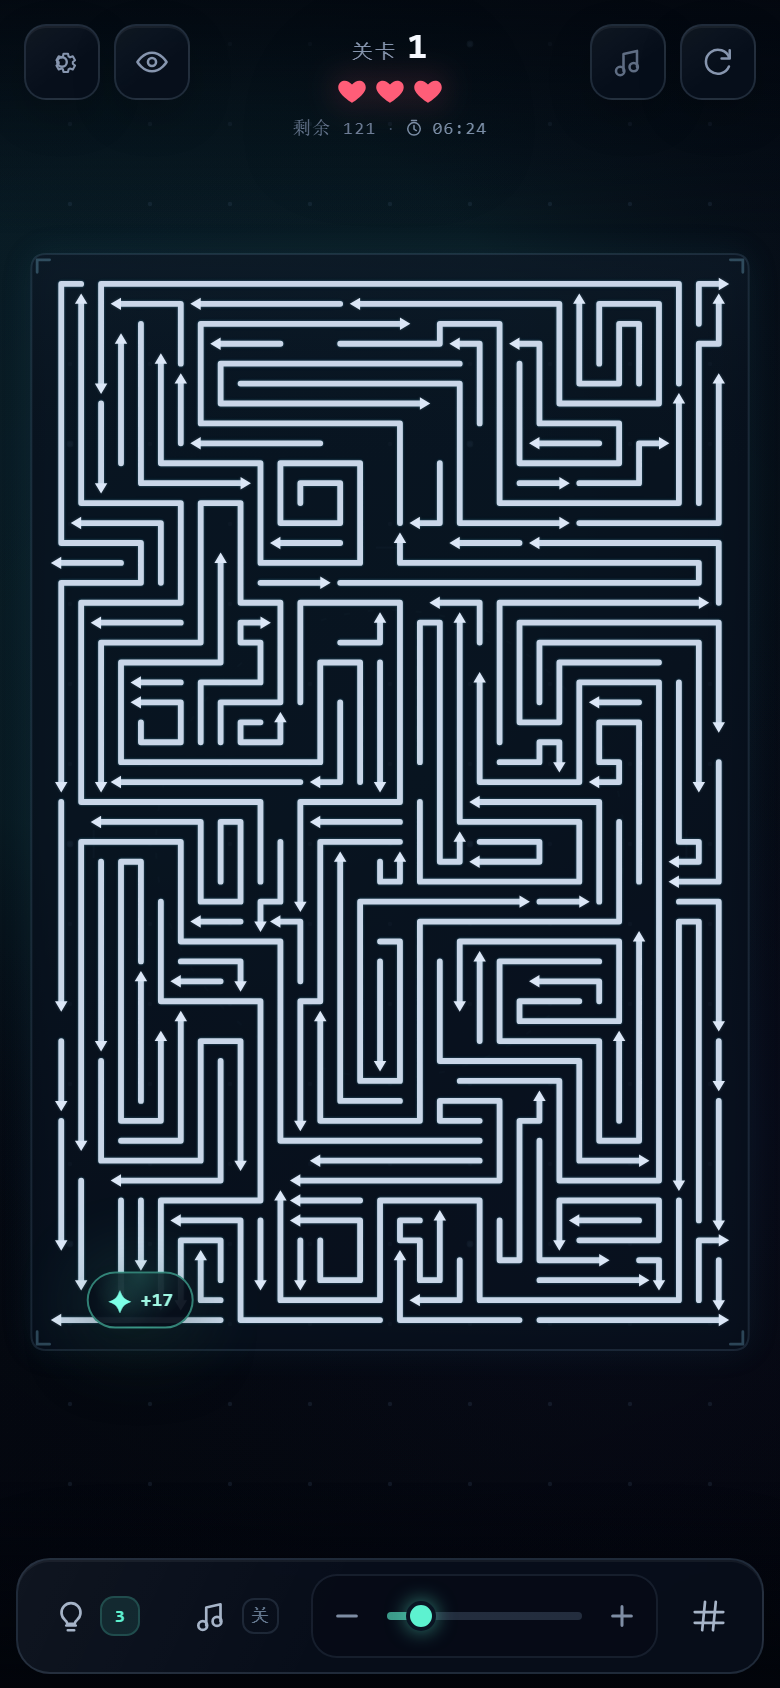
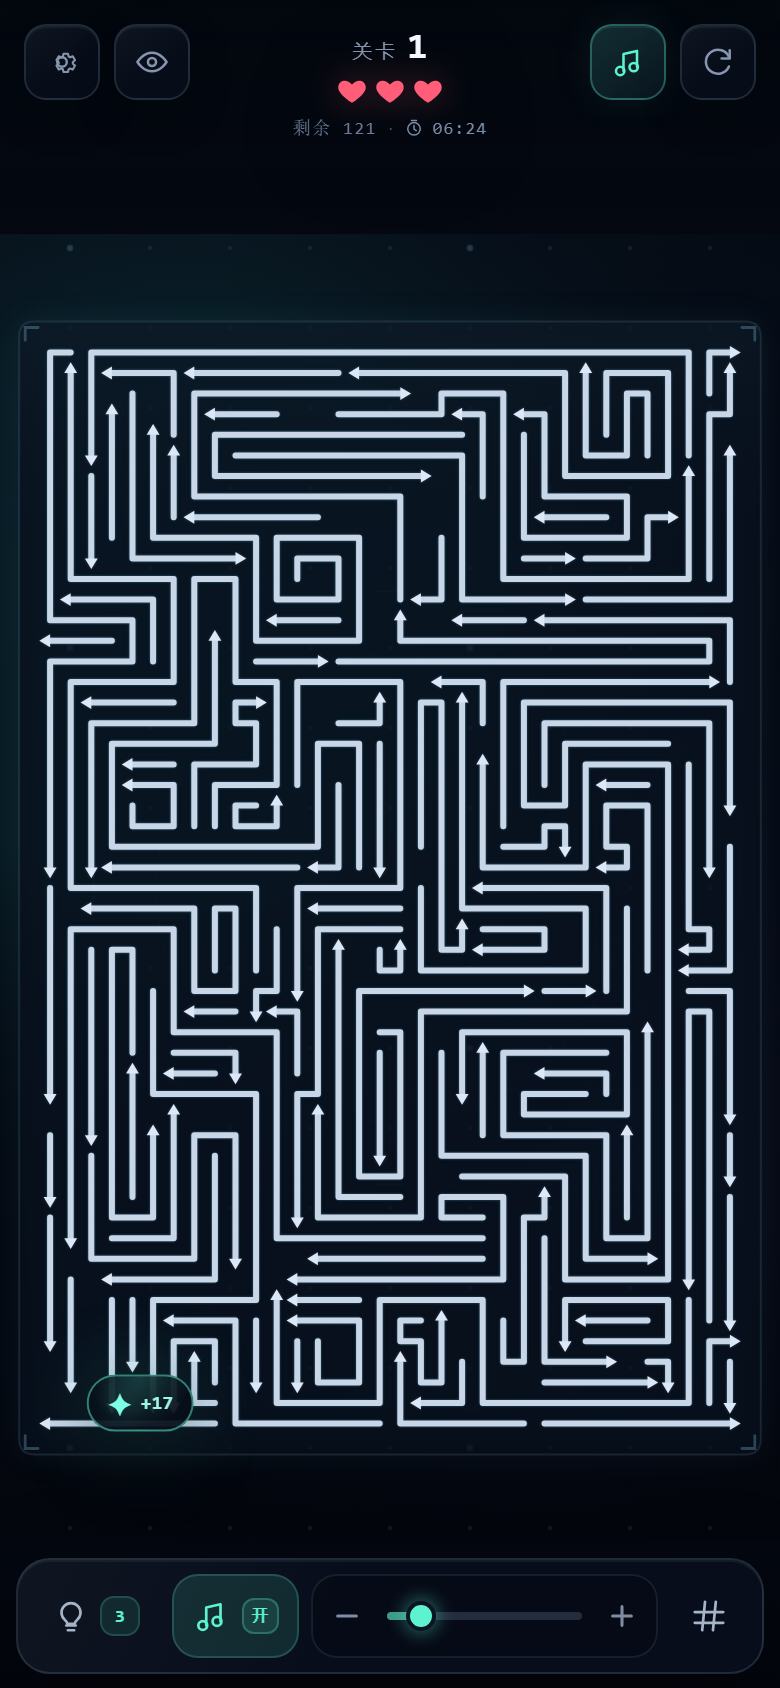
fix: 移动端缩放时画布避开 HUD 遮挡

diff --git a/src/styles.css b/src/styles.css
@@ -15,6 +15,8 @@
   --font-mono: "SFMono-Regular", "Cascadia Code", "Roboto Mono", Consolas, monospace;
   --safe-top: env(safe-area-inset-top, 0px);
   --safe-bottom: env(safe-area-inset-bottom, 0px);
+  --chrome-top: calc(96px + var(--safe-top));
+  --chrome-bottom: calc(92px + var(--safe-bottom));
 }
 
 * {
@@ -73,10 +75,11 @@ input:focus-visible {
 
 #game {
   position: absolute;
-  inset: 0;
+  top: var(--chrome-top);
+  left: 0;
   display: block;
   width: 100%;
-  height: 100%;
+  height: calc(100% - var(--chrome-top) - var(--chrome-bottom));
   touch-action: none;
   user-select: none;
   -webkit-user-select: none;
@@ -107,8 +110,8 @@ input:focus-visible {
   padding:
     calc(16px + var(--safe-top))
     clamp(14px, 3vw, 36px)
-    58px;
-  background: linear-gradient(to bottom, rgba(3, 7, 14, 0.78), rgba(3, 7, 14, 0));
+    8px;
+  background: linear-gradient(to bottom, rgba(3, 7, 14, 0.9), rgba(3, 7, 14, 0.35));
 }
 
 .hud-group {
@@ -321,10 +324,10 @@ input:focus-visible {
   align-items: center;
   gap: 7px;
   padding:
-    68px
+    8px
     clamp(10px, 2.5vw, 30px)
     calc(10px + var(--safe-bottom));
-  background: linear-gradient(to top, rgba(3, 6, 13, 0.95), rgba(3, 6, 13, 0));
+  background: linear-gradient(to top, rgba(3, 6, 13, 0.95), rgba(3, 6, 13, 0.35));
 }
 
 .toolbar {
@@ -1880,7 +1883,7 @@ input:focus-visible {
   }
 
   .hud-bottom {
-    padding-top: 38px;
+    padding-top: 8px;
   }
 
   .toast {
@@ -1935,13 +1938,18 @@ input:focus-visible {
 }
 
 @media (max-height: 540px) and (orientation: landscape) {
+  :root {
+    --chrome-top: calc(64px + var(--safe-top));
+    --chrome-bottom: calc(70px + var(--safe-bottom));
+  }
+
   .hud-top {
     padding-top: calc(7px + var(--safe-top));
-    padding-bottom: 26px;
+    padding-bottom: 8px;
   }
 
   .hud-bottom {
-    padding-top: 26px;
+    padding-top: 8px;
     padding-bottom: calc(6px + var(--safe-bottom));
   }
 

diff --git a/src/game/Game.js b/src/game/Game.js
@@ -1652,7 +1652,26 @@ export class Game {
     });
   }
 
+  updateChromeInsets() {
+    const top = this.ui.hudTop?.getBoundingClientRect().height;
+    const bottom = this.ui.hudBottom?.getBoundingClientRect().height;
+    if (Number.isFinite(top) && top > 0) {
+      document.documentElement.style.setProperty(
+        '--chrome-top',
+        `${Math.ceil(top)}px`
+      );
+    }
+    if (Number.isFinite(bottom) && bottom > 0) {
+      document.documentElement.style.setProperty(
+        '--chrome-bottom',
+        `${Math.ceil(bottom)}px`
+      );
+    }
+  }
+
   resize() {
+    // 画布只占顶部 HUD 和底部工具栏之间的区域，缩放/平移都不会钻到菜单下面。
+    this.updateChromeInsets();
     const rect = this.canvas.getBoundingClientRect();
     const width = Math.max(1, rect.width);
     const height = Math.max(1, rect.height);
@@ -1872,16 +1891,13 @@ function distanceBetween(a, b) {
   return Math.hypot(a.x - b.x, a.y - b.y);
 }
 
-/** 短屏/小屏上压缩 HUD 留白，让棋盘尽可能大一些。 */
-function getFitInsets(width, height) {
+/**
+ * 画布本身已经避开了顶部/底部 HUD，所以这里只留一点呼吸边。
+ * 不能再把 HUD 的高度重复算进相机 inset，否则棋盘会被压得太小。
+ */
+function getFitInsets(width) {
   const side = width < 360 ? 8 : width < 520 ? 12 : 18;
-  if (height < 500) {
-    return { top: 64, right: side, bottom: 82, left: side };
-  }
-  if (height < 700) {
-    return { top: 88, right: side, bottom: 112, left: side };
-  }
-  return { ...CONFIG.camera.fitInset };
+  return { top: 8, right: side, bottom: 8, left: side };
 }
 
 function midpointOf(a, b) {

diff --git a/src/main.js b/src/main.js
@@ -25,6 +25,8 @@ const ui = {
   zoomInBtn: document.querySelector('#zoomInBtn'),
   toast: document.querySelector('#toast'),
   keyBurstLayer: document.querySelector('#keyBurstLayer'),
+  hudTop: document.querySelector('.hud-top'),
+  hudBottom: document.querySelector('.hud-bottom'),
   damageFlash: document.querySelector('#damageFlash'),
   liveStatus: document.querySelector('#liveStatus'),
 

diff --git a/src/config.js b/src/config.js
@@ -111,7 +111,7 @@ export const CONFIG = Object.freeze({
     minZoom: 0.72,
     maxZoom: 3.2,
     wheelStep: 0.0016,
-    fitInset: { top: 108, right: 18, bottom: 150, left: 18 },
+    fitInset: { top: 8, right: 18, bottom: 8, left: 18 },
     panOverscroll: 26
   },
 

diff --git a/README.md b/README.md
@@ -107,6 +107,8 @@ GitHub Pages 不能直接把仓库子目录作为站点根目录，需要用 Git
 - **难度曲线**：安全线目标从第 1 关的 8 条逐步降到 3 条，关键点目标从 3 个降到 1 个；
   高关卡会生成更多 2~4 段短线，用线路数量继续加难度。
 - **关键突破**：清掉高影响力箭头时，在箭头位置浮出星形图标和影响条数，配轻量音效。
+- **移动端安全布局**：画布只占顶部 HUD 与底部工具栏之间的区域；放大、平移时棋盘被裁在画布内，
+  不会钻到菜单按钮下面。
 - **限时**：每关有倒计时，默认基础 **6 分钟**；时间到会弹出「时间到」并允许重试。
   公式为 `基础分钟*60 + (关卡-1)*15 + 箭头数*0.2` 秒，基础分钟可在设置里调整。
 - **本机记录**：累计通关次数保存在 `localStorage`，刷新/重开浏览器都在；
